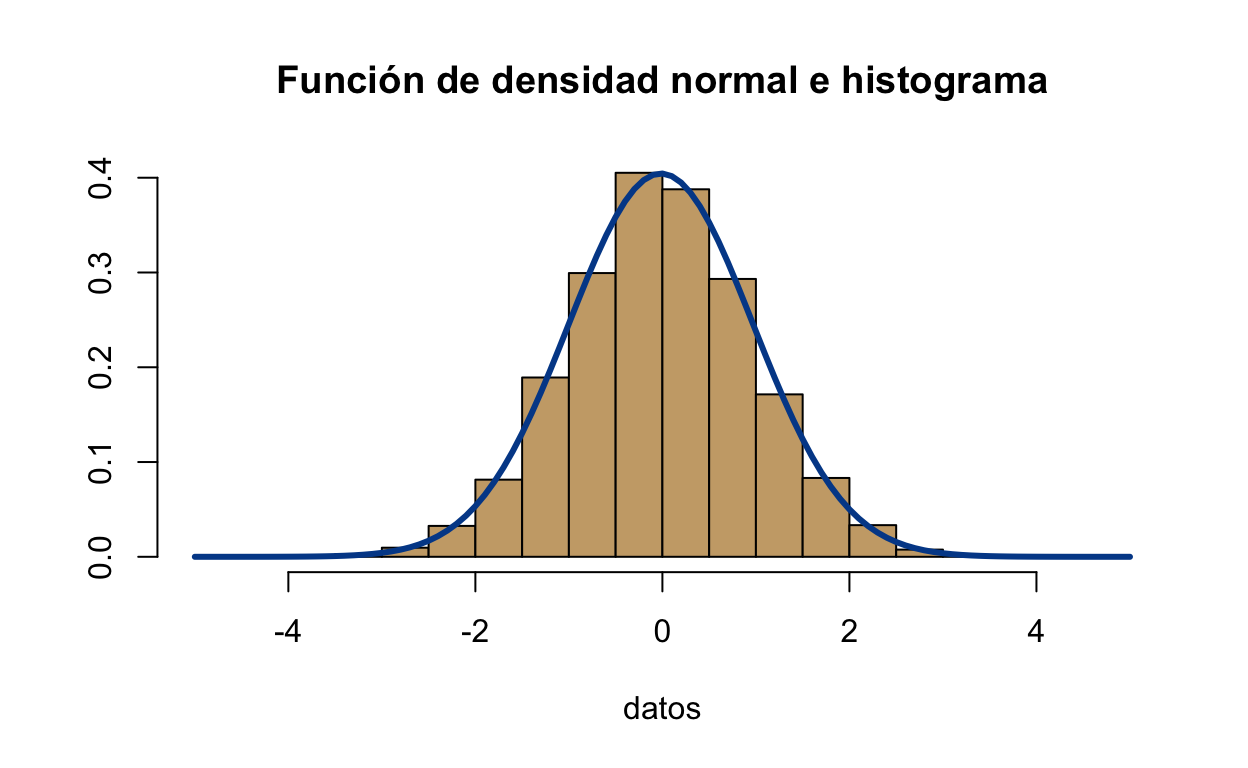
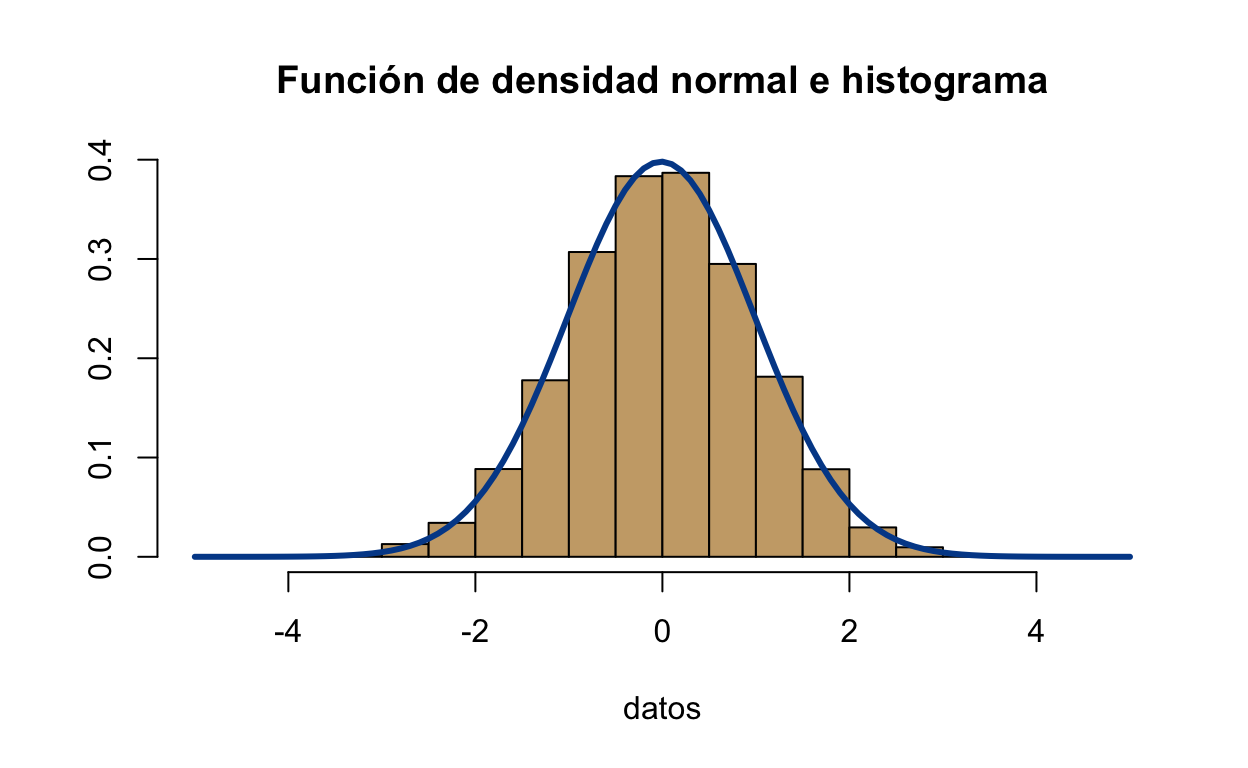
muestra

diff --git a/docs/index.html b/docs/index.html
@@ -89,27 +89,27 @@ code span.wa { color: #5e5e5e; font-style: italic; } /* Warning */
   <!--radix_placeholder_meta_tags-->
   <title>SEM005 2022-II: Seminario de Investigación V</title>
 
-  <meta property="description" itemprop="description" content="Seminario de investigación V, es una asignatura del séptimo semestre del Doctorado en Ciencias Empresariales&#10;de la Universidad Panamericana &#10;&#10;Dr. Rafael Martínez Martínez"/>
+  <meta property="description" itemprop="description" content="Seminario de investigación V, asignatura del séptimo semestre del Doctorado en Ciencias Empresariales&#10;de la Universidad Panamericana &#10;&#10;Dr. Rafael Martínez Martínez"/>
 
 
 
   <!--  https://developers.facebook.com/docs/sharing/webmasters#markup -->
   <meta property="og:title" content="SEM005 2022-II: Seminario de Investigación V"/>
   <meta property="og:type" content="article"/>
-  <meta property="og:description" content="Seminario de investigación V, es una asignatura del séptimo semestre del Doctorado en Ciencias Empresariales&#10;de la Universidad Panamericana &#10;&#10;Dr. Rafael Martínez Martínez"/>
+  <meta property="og:description" content="Seminario de investigación V, asignatura del séptimo semestre del Doctorado en Ciencias Empresariales&#10;de la Universidad Panamericana &#10;&#10;Dr. Rafael Martínez Martínez"/>
   <meta property="og:locale" content="en_US"/>
   <meta property="og:site_name" content="SEM005 2022-II"/>
 
   <!--  https://dev.twitter.com/cards/types/summary -->
   <meta property="twitter:card" content="summary"/>
   <meta property="twitter:title" content="SEM005 2022-II: Seminario de Investigación V"/>
-  <meta property="twitter:description" content="Seminario de investigación V, es una asignatura del séptimo semestre del Doctorado en Ciencias Empresariales&#10;de la Universidad Panamericana &#10;&#10;Dr. Rafael Martínez Martínez"/>
+  <meta property="twitter:description" content="Seminario de investigación V, asignatura del séptimo semestre del Doctorado en Ciencias Empresariales&#10;de la Universidad Panamericana &#10;&#10;Dr. Rafael Martínez Martínez"/>
 
   <!--/radix_placeholder_meta_tags-->
   <!--radix_placeholder_rmarkdown_metadata-->
 
   <script type="text/json" id="radix-rmarkdown-metadata">
-  {"type":"list","attributes":{"names":{"type":"character","attributes":{},"value":["title","description","site"]}},"value":[{"type":"character","attributes":{},"value":["Seminario de Investigación V"]},{"type":"character","attributes":{},"value":["\nSeminario de investigación V, es una asignatura del séptimo semestre del Doctorado en Ciencias Empresariales\nde la Universidad Panamericana \n\nDr. Rafael Martínez Martínez\n"]},{"type":"character","attributes":{},"value":["distill::distill_website"]}]}
+  {"type":"list","attributes":{"names":{"type":"character","attributes":{},"value":["title","description","site"]}},"value":[{"type":"character","attributes":{},"value":["Seminario de Investigación V"]},{"type":"character","attributes":{},"value":["\nSeminario de investigación V, asignatura del séptimo semestre del Doctorado en Ciencias Empresariales\nde la Universidad Panamericana \n\nDr. Rafael Martínez Martínez\n"]},{"type":"character","attributes":{},"value":["distill::distill_website"]}]}
   </script>
   <!--/radix_placeholder_rmarkdown_metadata-->
   <!--radix_placeholder_navigation_in_header-->
@@ -2160,7 +2160,7 @@ code span.wa { color: #5e5e5e; font-style: italic; } /* Warning */
 <!--radix_placeholder_front_matter-->
 
 <script id="distill-front-matter" type="text/json">
-{"title":"Seminario de Investigación V","description":"Seminario de investigación V, es una asignatura del séptimo semestre del Doctorado en Ciencias Empresariales\nde la Universidad Panamericana \n\nDr. Rafael Martínez Martínez","authors":[]}
+{"title":"Seminario de Investigación V","description":"Seminario de investigación V, asignatura del séptimo semestre del Doctorado en Ciencias Empresariales\nde la Universidad Panamericana \n\nDr. Rafael Martínez Martínez","authors":[]}
 </script>
 
 <!--/radix_placeholder_front_matter-->
@@ -2197,9 +2197,8 @@ Clases
 <h1>Seminario de Investigación V</h1>
 <!--radix_placeholder_categories-->
 <!--/radix_placeholder_categories-->
-<p><p>Seminario de investigación V, es una asignatura del séptimo
-semestre del Doctorado en Ciencias Empresariales de la Universidad
-Panamericana</p>
+<p><p>Seminario de investigación V, asignatura del séptimo semestre del
+Doctorado en Ciencias Empresariales de la Universidad Panamericana</p>
 <p>Dr. Rafael Martínez Martínez</p></p>
 </div>
 

diff --git a/docs/clasemuestra.html b/docs/clasemuestra.html
@@ -2240,10 +2240,15 @@ probabilidad</a></li>
 </nav>
 </div>
 <h1 id="revisión-previa">Revisión previa</h1>
-<iframe style="width: 20%; display: inline-block; height: 100px;" src="https://drive.google.com/file/d/1ol7ZOfA77TK-z9HU3QlT1ugg9ihS-rcS/preview" height="173" allowfullscreen="allowfullscreen" allow="fullscreen">
-</iframe>
+<ul>
+<li>Se considera una exposición general.</li>
+<li>La exposición se puede adaptar para más o menos detalles
+técnicos</li>
+</ul>
 <h1 id="distribuciones-de-probabilidad">Distribuciones de
 probabilidad</h1>
+<iframe id="myFrame" src="https://slides.com/ra_fa/upsem005/fullscreen#/1" width="100%" height="650" scrolling="no" frameborder="0" webkitallowfullscreen mozallowfullscreen allowfullscreen>
+</iframe>
 <p>En R se tiene un <a
 href="https://cran.r-project.org/web/views/Distributions.html">documento</a>
 donde se puede encontrar una descripción sobre las distribuciones y
@@ -2297,7 +2302,7 @@ class="math inline">\(X\sim N(0,1)\)</span></p>
 <pre class="sourceCode r"><code class="sourceCode r"><span class='fu'><a href='https://rdrr.io/r/base/print.html'>print</a></span><span class='op'>(</span><span class='fu'><a href='https://rdrr.io/r/stats/Normal.html'>rnorm</a></span><span class='op'>(</span><span class='fl'>5</span><span class='op'>)</span><span class='op'>)</span>
 </code></pre>
 </div>
-<pre><code>[1]  1.1587787  0.2045420  0.6764234 -0.3853769 -0.4586691</code></pre>
+<pre><code>[1]  1.1906235  0.1074744 -0.1585888  0.9164193  0.9899228</code></pre>
 </div>
 <p>Se realiza la gráfica de la función de densidad y de distribución</p>
 <div class="layout-chunk" data-layout="l-body">
@@ -2339,7 +2344,7 @@ N(10,0.5)\)</span></p>
 <pre class="sourceCode r"><code class="sourceCode r"><span class='fu'><a href='https://rdrr.io/r/base/print.html'>print</a></span><span class='op'>(</span><span class='fu'><a href='https://rdrr.io/r/stats/Normal.html'>rnorm</a></span><span class='op'>(</span><span class='fl'>5</span>, mean <span class='op'>=</span> <span class='fl'>5</span>, sd <span class='op'>=</span> <span class='fl'>0.5</span><span class='op'>)</span><span class='op'>)</span>
 </code></pre>
 </div>
-<pre><code>[1] 4.303156 5.351702 5.201424 5.414744 5.128848</code></pre>
+<pre><code>[1] 4.494062 4.300399 5.102733 5.361309 4.262025</code></pre>
 </div>
 <p>Se realiza la gráfica de la función de densidad y de distribución</p>
 <div class="layout-chunk" data-layout="l-body">
